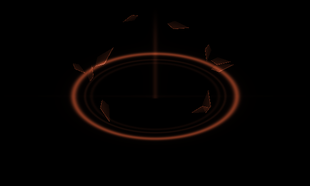
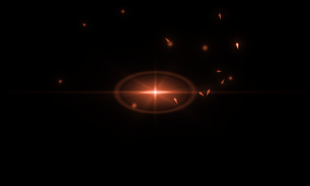
Give SYNK mode's hit SSRG's swelling bloom, with its own star and rim
The flash now swells to a white-hot pool on the third frame, is crossed by a
lens streak and sinks back into rings like SSRG's Effect_A, while keeping a
six-rayed star, the note's double rim and kite sparks as SYNK's own.

diff --git a/tools/make_synk_mode_art.py b/tools/make_synk_mode_art.py
@@ -216,68 +216,80 @@ def pause():
 
 
 def hit():
-    """SYNK mode's hit: the note's ring releasing. Eleven frames on black for additive
-    blending, the same 310 x 186 sprite and 33 fps timing as SSRG's Effect_A.
-    The ring snaps outward along the road as a crisp double rim; the glass inside it
-    flashes once; a narrow pillar of light shoots up from the centre and thins away; and
-    shards of glass scatter and tumble upward. There is no large bloom, so the road stays
-    readable. The game recolours it per note from its brightness."""
+    """SYNK mode's hit, in the spirit of SSRG's Effect_A: a flat pool of light that swells to
+    a white-hot bloom on the third frame, crossed by a lens streak, then sinks back into
+    rings and leaves a few sparks drifting. Same 310 x 186 sprite, eleven frames, 33 fps.
+    What makes it SYNK's own: where SSRG swirls discs of light, this opens a six-rayed star
+    lying on the road, wears the note's crisp double rim, and throws kite-shaped sparks
+    upward. Drawn on black for additive blending; the game recolours it per note."""
     w, h, ss = 310, 186, 2
     Y, X = np.mgrid[0:h * ss, 0:w * ss].astype(float) / ss
-    cx, cy, half, squash = 155.0, 96.0, 150.0, .52       # the ring lies flat on the road, centred on the hit
+    cx, cy, half, squash = 155.0, 92.0, 150.0, .52
     dx, dy = X - cx, Y - cy
     r = np.hypot(dx, dy / squash) / half                 # 0 at the centre, 1 at the sprite's side edge
-    rng = np.random.default_rng(11)
-    # Shards: direction, speed, size, spin, rise.
-    shards = [(rng.uniform(0, 2 * np.pi), rng.uniform(.5, 1.05), rng.uniform(12, 22), rng.uniform(-3, 3), rng.uniform(.3, 1.0)) for _ in range(11)]
+    theta = np.arctan2(dy / squash, dx)
+    rng = np.random.default_rng(23)
+    # How wide and how bright the pool is on each frame: small, swelling, peak on the third, sinking.
+    SIZE = [.20, .40, .74, .64, .52, .47, .44, .41, .30, .19, .12]
+    HEAT = [.75, 1.1, 1.6, 1.35, 1.1, .88, .66, .46, .36, .18, .07]
+    # Sparks: direction, speed, size, spin, lift, and whether it is a kite or a mote.
+    sparks = [(rng.uniform(0, 2 * np.pi), rng.uniform(.45, 1.15), rng.uniform(3.0, 6.5), rng.uniform(-4, 4), rng.uniform(.2, 1.0), rng.random() < .55) for _ in range(16)]
     for i in range(11):
         t = i / 10
-        ease = 1 - (1 - t) ** 2.4                        # fast out, slowing
-        fade = (1 - t) ** 1.3
-        snap = np.exp(-(t / .16) ** 2)                   # the first instant
+        size, heat = SIZE[i], HEAT[i]
+        ease = 1 - (1 - t) ** 2.2
+        fade = (1 - t) ** 1.2
         light = np.zeros_like(r)
-        # The ring: a bold outer rim and a fine inner one, like the note, thinning as it runs.
-        ring_r = .28 + .27 * ease                        # ends a little over 1.5x the note's width
-        width = .030 * (1 - .65 * t) + .006
-        light += np.exp(-((r - ring_r) / width) ** 2) * (.55 + .75 * fade) * min(1.0, 1.5 - t)
-        light += np.exp(-((r - ring_r * .86) / (width * .45)) ** 2) * fade * .7
-        light += np.exp(-np.abs(r - ring_r) / .05) * fade * .22          # a soft glow hugging the rim
-        # A second, fainter ring leaves a beat later.
-        if t > .2:
-            late = (t - .2) / .8
-            light += np.exp(-((r - (.20 + .24 * (1 - (1 - late) ** 2))) / .012) ** 2) * (1 - late) ** 1.5 * .45
-        # The glass inside the ring flashes once and clears.
-        light += smooth(ring_r, ring_r * .5, r) * snap * .5
-        # A small hot core, only at the first instant.
-        light += np.exp(-(r / .11) ** 2) * snap * 1.6
-        # The pillar: a narrow column rising from the centre, thinning and fading.
-        rise = np.clip((cy - Y) / (cy - 4), 0, 1)        # 0 at the ring's centre, 1 at the sprite's top
-        pillar_w = 2.0 + 9.0 * (1 - t) ** 2
-        reach = min(1.0, .35 + 2.6 * t)                  # how high it has shot
-        column = np.exp(-(dx / pillar_w) ** 2) * (Y <= cy + 2) * smooth(reach, reach * .55, rise) * (1 - t) ** 1.6
-        light += column * 1.25
-        light += np.exp(-np.abs(dx) / (pillar_w * 3.5)) * (Y <= cy + 2) * smooth(reach, reach * .4, rise) * (1 - t) ** 2 * .22
-        # A fine streak along the road through the centre.
-        light += np.exp(-(dy / (1.2 + 2.0 * snap)) ** 2) * np.exp(-np.abs(dx) / (30 + 45 * ease)) * (1 - t) ** 2.2 * .9
-        # Shards of glass: kites lit along one edge, flying out, rising and tumbling.
-        for angle, speed, size, spin, lift in shards:
-            d = (.20 + speed * .55 * ease) * half * .8
+        # The pool: a soft flat bloom with a wide faint skirt.
+        light += np.exp(-(r / (size * .62)) ** 2) * heat * .62
+        light += np.exp(-r / (size * .7)) * heat * .22
+        # A glassy fill out to the rim, so the whole disc glows as SSRG's does.
+        light += smooth(min(size * .86, .50) * 1.12, min(size * .86, .50) * .45, r) * heat * .34
+        # Its white-hot heart.
+        light += np.exp(-(r / (size * .34)) ** 2) * heat * 1.15
+        # The star: six soft rays lying on the road, turning slowly, longest at the peak.
+        turn = .35 + 1.1 * t
+        rays = np.cos(3 * (theta + turn)) ** 2
+        fine = np.cos(6 * (theta - turn * .6) + 1.0) ** 2
+        light += rays ** 7 * np.exp(-r / (size * .5)) * heat * .55 * smooth(.02, .12, r)
+        light += fine ** 14 * np.exp(-r / (size * .34)) * heat * .28 * smooth(.02, .10, r)
+        # The note's rim: a crisp double ring riding the edge of the pool, staying compact.
+        rim = min(size * .86, .50)
+        width = .020 * (1 - .4 * t) + .005
+        light += np.exp(-((r - rim) / width) ** 2) * (.30 + .55 * fade) * min(1.0, heat * 1.2)
+        light += np.exp(-((r - rim * .80) / (width * .5)) ** 2) * fade * .40 * min(1.0, heat * 1.2)
+        # Once the bloom sinks, a dark gap opens inside the rim, as SSRG's discs do.
+        if .45 <= t <= .8:
+            gap = np.exp(-((r - rim * .9) / .035) ** 2) * (1 - abs(t - .62) / .2)
+            light *= 1 - .45 * np.clip(gap, 0, 1)
+        # The lens streak across the road, widest at the peak.
+        light += np.exp(-(dy / (1.0 + 1.6 * heat)) ** 2) * np.exp(-np.abs(dx) / (half * size * 1.25)) * heat * .55
+        # Near the end the heart shrinks to a four-point glint.
+        if t >= .7:
+            glint = np.exp(-np.abs(dx) / 16) * np.exp(-(dy / 1.3) ** 2) + np.exp(-np.abs(dy) / 9) * np.exp(-(dx / 1.3) ** 2)
+            light += glint * (1 - t) ** .8 * 1.3
+        # Sparks: kites and motes thrown out and upward, tumbling, outliving the bloom.
+        for angle, speed, sz, spin, lift, kite_shape in sparks:
+            d = (.10 + speed * .78 * ease) * half * .8
             sx = cx + np.cos(angle) * d
-            sy = cy + np.sin(angle) * d * squash - lift * ease * 46
-            turn = angle + spin * t
-            lx = (X - sx) * np.cos(turn) + (Y - sy) * np.sin(turn)
-            ly = -(X - sx) * np.sin(turn) + (Y - sy) * np.cos(turn)
-            scale = size * (1 - .5 * t)
-            kite = 1 - (np.abs(lx) / (scale * np.where(lx > 0, 1.5, .7)) + np.abs(ly) / (scale * .42))
-            inside = kite > 0
-            facet = np.clip(.18 + .5 * (ly / (scale * .42) + 1) / 2, 0, 1)
-            rim = smooth(.16, 0, kite) * (ly > 0)
-            light += inside * (facet * .95 + rim * 1.5) * (1 - t) ** .9 * min(1.0, t * 10)
+            sy = cy + np.sin(angle) * d * squash - lift * ease * 50
+            alive = min(1.0, t * 8) * (1 - t) ** .6
+            if kite_shape:
+                rot = angle + spin * t
+                lx = (X - sx) * np.cos(rot) + (Y - sy) * np.sin(rot)
+                ly = -(X - sx) * np.sin(rot) + (Y - sy) * np.cos(rot)
+                scale = sz * (1 - .45 * t)
+                kite = 1 - (np.abs(lx) / (scale * np.where(lx > 0, 1.7, .7)) + np.abs(ly) / (scale * .45))
+                light += np.clip(kite * 3, 0, 1) * alive * 1.2
+                light += np.exp(-np.hypot(X - sx, Y - sy) / (scale * 1.1)) * alive * .30
+            else:
+                light += np.exp(-(np.hypot(X - sx, Y - sy) / (sz * .38)) ** 2) * alive * 1.3
+                light += np.exp(-np.hypot(X - sx, Y - sy) / (sz * .9)) * alive * .25
         # Keep everything inside the sprite.
-        light *= smooth(0, 6, np.minimum(np.minimum(X, w - X), np.minimum(Y, h - Y)))
-        light = np.clip(light, 0, 2)
+        light *= smooth(0, 8, np.minimum(np.minimum(X, w - X), np.minimum(Y, h - Y)))
+        light = np.clip(light, 0, 2.2)
         base = np.clip(light, 0, 1)
-        rgb = CORAL * base[..., None] + (WHITE - CORAL) * np.clip(light - .6, 0, 1)[..., None]
+        rgb = CORAL * base[..., None] + (WHITE - CORAL) * np.clip(light - .7, 0, 1)[..., None]
         img = Image.fromarray(np.clip(rgb * 255 + .5, 0, 255).astype(np.uint8), "RGB").resize((w, h), Image.LANCZOS).convert("RGBA")
         for attempt in range(8):
             try:
